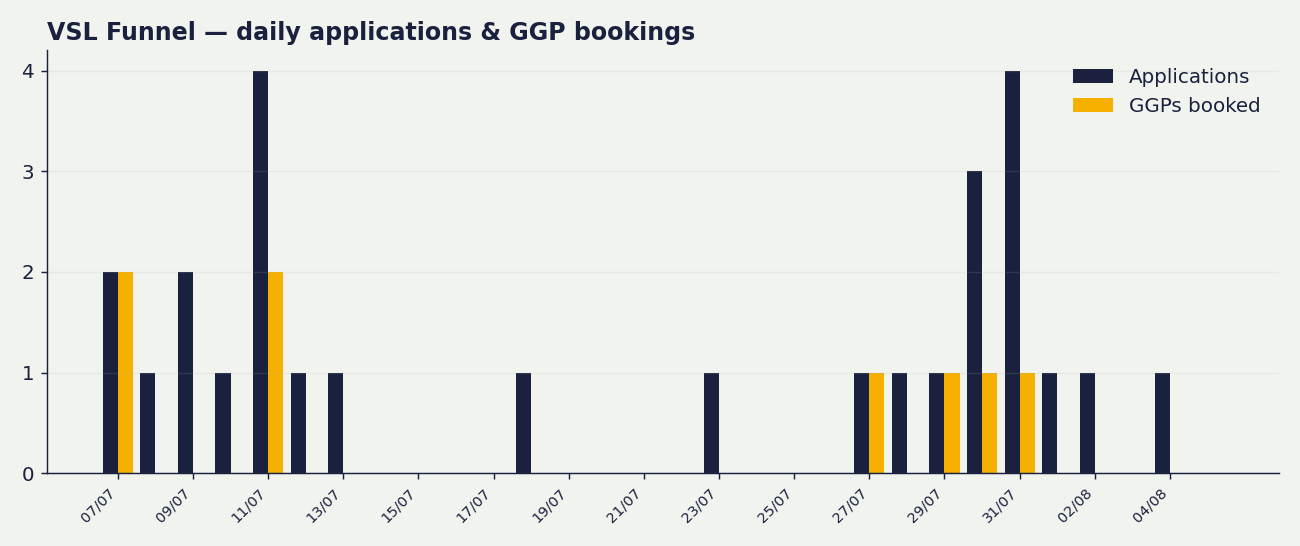
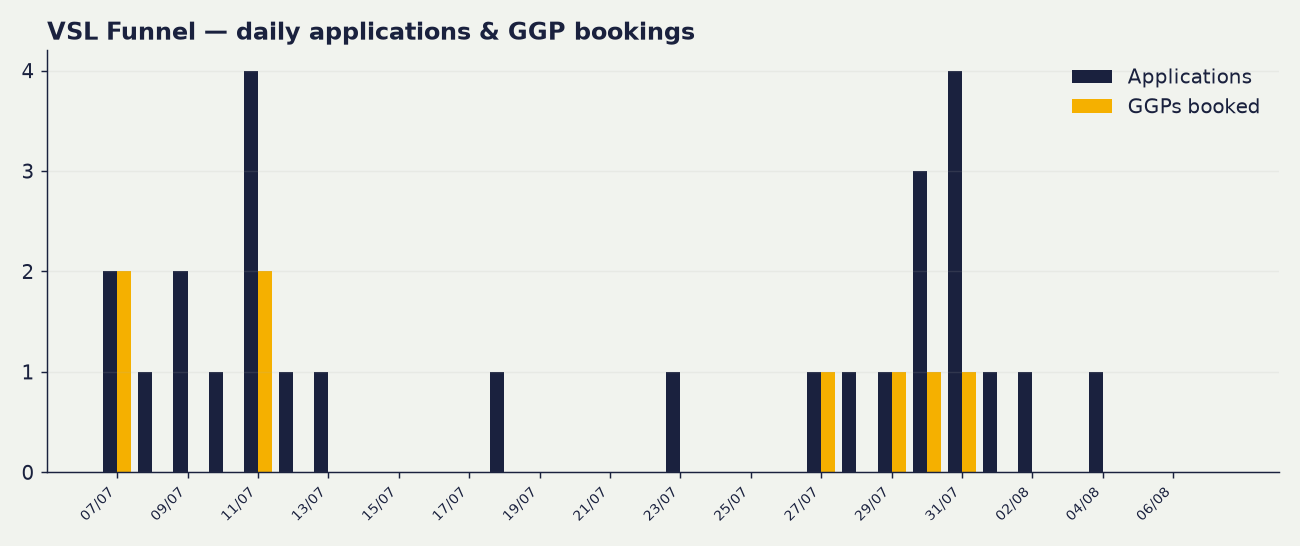
nightly dashboard update 2026-08-07 05:54

diff --git a/content/index.md b/content/index.md
@@ -1,6 +1,6 @@
 # 📈 VSL Funnel Dashboard
 
-_Live from the VSL Applications tracker + Meta. Last updated: 7 Aug 2026, 04:00 BST. Rebuilds nightly._
+_Live from the VSL Applications tracker + Meta. Last updated: 7 Aug 2026, 05:54 BST. Rebuilds nightly._
 
 > Funnel window from 2026-07-07. Attribution = your team's funnel-stage ticks on the Applications tab (the source of truth).
 
@@ -10,7 +10,7 @@ _Live from the VSL Applications tracker + Meta. Last updated: 7 Aug 2026, 04:00 
 
 | Metric | Value |
 |---|---|
-| 💷 Spent | **£1,947.98** |
+| 💷 Spent | **£1,949.70** |
 | 👀 Opt-ins | **84** |
 | 📝 Applications | **40** |
 | 📞 GGPs booked | **10** |
@@ -34,12 +34,12 @@ _Live from the VSL Applications tracker + Meta. Last updated: 7 Aug 2026, 04:00 
 | Cost per application | £49 |
 | Cost per GGP booked | £195 |
 | Cost per show-up | £487 |
-| **Cost per acquisition (CPA)** | **£974** |
+| **Cost per acquisition (CPA)** | **£975** |
 
 ## Ad spend split
 
-- 🔥 Warm: £1,007.70
-- ❄ Cold: £940.28
+- 🔥 Warm: £1,009.25
+- ❄ Cold: £940.45
 
 ---
 
@@ -57,4 +57,4 @@ _Live from the VSL Applications tracker + Meta. Last updated: 7 Aug 2026, 04:00 
 > _Applications + GGP-booked are TRUE daily series (from submission timestamps). Opt-ins have no per-day source in the Opt-ins tab, so opt-ins appear as a total only, not a daily line._
 
 ---
-<!-- Auto-generated by the VSL dashboard nightly pipeline. Do not edit by hand. 7 Aug 2026, 04:00 BST -->
+<!-- Auto-generated by the VSL dashboard nightly pipeline. Do not edit by hand. 7 Aug 2026, 05:54 BST -->
